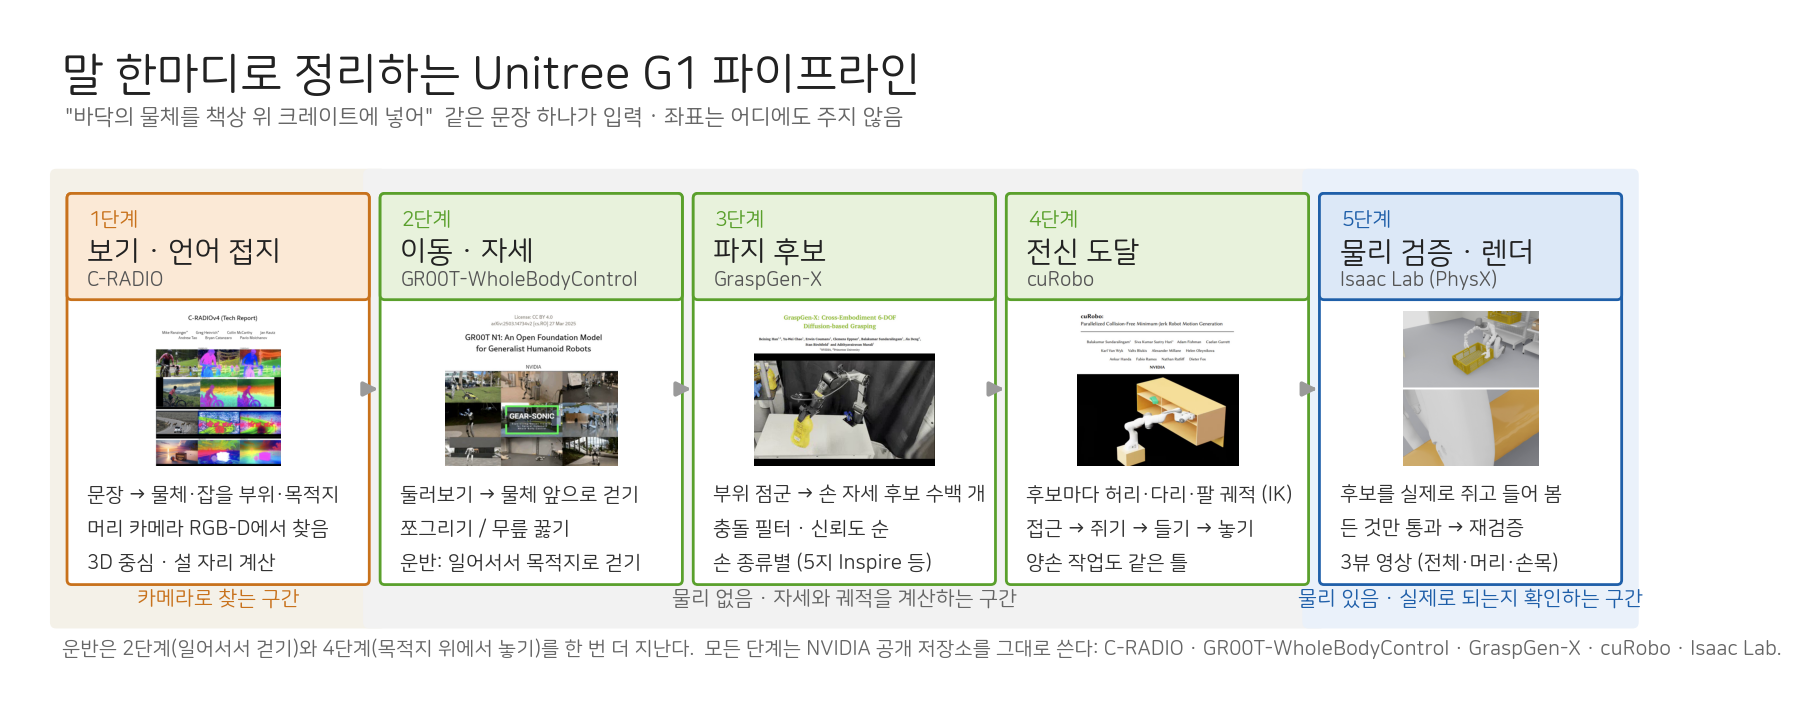
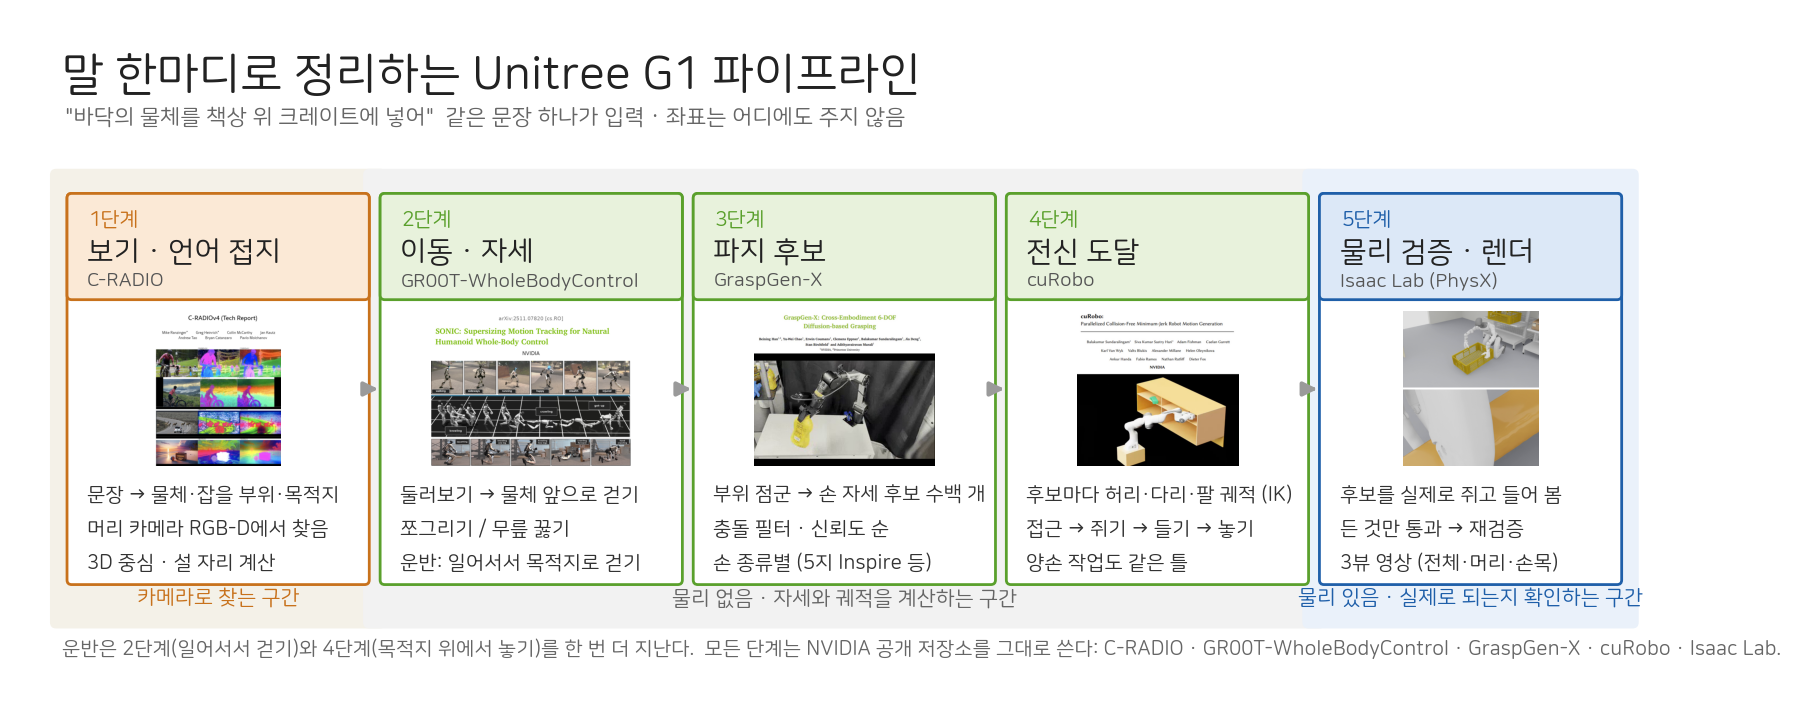
crate (261002): floor crate on the drill/hammer chain; pipeline figure stage 2 -> SONIC paper
- floor_to_crate_chain_wb.sh: CRATE_PICK (two-hand outside rim pinch, stops after the rise), CRATE_GRASPS
  (GraspGenX pairs + physics test), kneel round with the smallest error, APPROACH_TOL, LEGS_DIRECT /
  RISE_LEGS_DIRECT (legs on the drives through the stand-up, policy takes them standing), RISE_SLOW pass-through
- rise_reference_wb.py: BOTH_ARMS, RISE_UPPER (waist + arms frozen, GR00T deploy overwrites all 17 upper joints)
- reach_from_pose_wb.py: --crate-bring (rigid two-hand grip pulled in, torso_link upright target)
- crate_mesh_scene_wb.py: crate mesh surface as a GraspGenX JSON point-cloud scene (e2e mesh fallback)
- play_in_cell_wb.py: faulthandler on SIGUSR1 (render stalls are in omni.syntheticdata graph evaluate)
- docs: DIAGNOSIS 10-02; pipeline stage 2 thumbnail was the GR00T N1 paper, now SONIC (arXiv:2511.07820)

diff --git a/grasp/reach_from_pose_wb.py b/grasp/reach_from_pose_wb.py
@@ -928,6 +928,54 @@ def main():
         print(f"[reach] wrote {sys.argv[sys.argv.index('--out') + 1]}")
         return
 
+    # --crate-bring: still kneeling with the crate lifted, bring it in to the carrying position before the stand-up.
+    # GR00T's planner drives only the legs; the upper body is whatever the operator commands (g1_deploy_onnx_ref.cpp:
+    # 780-792), and an operator brings a load in before getting up. Crate v2/v3 of 261002 stood up with the crate 0.7 m
+    # in front of the pelvis and the waist at its roll/pitch limits (0.51) and fell. The two wrists move as one rigid
+    # grip (the crate stays held): its midpoint to CARRY_FWD in front of the pelvis at its current height, its heading
+    # turned to the pelvis heading; CARRY_FWD 0.256 m is where the planner's own objectCarrying arm (mode 21,
+    # carry_pose_wb.py CARRY_ARM) puts the wrists (FK on GR00T's g1_29dof.urdf). The torso_link gets a target too
+    # (cuRobo per-link ToolPoseCriteria): upright over the pelvis, facing its heading (waist 0; pelvis->torso offset
+    # (-0.0039635, 0, 0.054) from the urdf's waist joints). For the crate (0.6 m long, gripped 0.10 m on the robot's
+    # side of its centre) 0.256 puts its near end into the kneeling thighs (FK: knees 0.24 m ahead, thigh top 0.33 ->
+    # 0.11 m): crate v4 uses CARRY_FWD 0.35 + CARRY_UP 0.08 (near end 0.15 m ahead, bottom 0.24 m over thigh top ~0.21 m).
+    if "--crate-bring" in sys.argv:
+        li = list(cfg.tool_frames).index("left_wrist_yaw_link"); ri = list(cfg.tool_frames).index("right_wrist_yaw_link")
+        ti = list(cfg.tool_frames).index("torso_link"); pi_ = list(cfg.tool_frames).index("pelvis")
+        T0 = {}
+        for k in (li, ri):
+            M = np.eye(4); M[:3, 3] = pos0[k]; M[:3, :3] = quat_to_mat(quat0[k]); T0[k] = M
+        Rp = quat_to_mat(quat0[pi_]); fwd = Rp[:, 0].copy(); fwd[2] = 0; fwd /= np.linalg.norm(fwd)
+        yaw = math.atan2(fwd[1], fwd[0])
+        Ryaw = np.array([[math.cos(yaw), -math.sin(yaw), 0], [math.sin(yaw), math.cos(yaw), 0], [0, 0, 1]])
+        mid = (T0[li][:3, 3] + T0[ri][:3, 3]) / 2.0
+        across = T0[li][:3, 3] - T0[ri][:3, 3]; gyaw = math.atan2(across[1], across[0]) - math.pi / 2   # the grip's forward
+        dyaw = (yaw - gyaw + math.pi) % (2 * math.pi) - math.pi
+        Rd = np.array([[math.cos(dyaw), -math.sin(dyaw), 0], [math.sin(dyaw), math.cos(dyaw), 0], [0, 0, 1]])
+        target = pos0[pi_] + Ryaw @ np.array([float(os.environ.get("CARRY_FWD", "0.256")), 0.0, 0.0]); target[2] = mid[2] + float(os.environ.get("CARRY_UP", "0"))
+        Tt = np.eye(4); Tt[:3, :3] = Ryaw; Tt[:3, 3] = pos0[pi_] + Ryaw @ np.array([-0.0039635, 0.0, 0.054])
+        Tt0 = np.eye(4); Tt0[:3, :3] = quat_to_mat(quat0[ti]); Tt0[:3, 3] = pos0[ti]
+        from scipy.spatial.transform import Rotation as _Rb, Slerp as _Sb
+        tslerp = _Sb([0, 1], _Rb.from_matrix([Tt0[:3, :3], Tt[:3, :3]]))
+        n_go, n_hold = 90, 30
+        steps = []
+        for i in range(n_go + n_hold):
+            a = min(1.0, (i + 1) / n_go)
+            Ra = np.array([[math.cos(a * dyaw), -math.sin(a * dyaw), 0], [math.sin(a * dyaw), math.cos(a * dyaw), 0], [0, 0, 1]])
+            st = {}
+            for k in (li, ri):
+                M = T0[k].copy(); M[:3, :3] = Ra @ T0[k][:3, :3]
+                M[:3, 3] = mid + a * (target - mid) + Ra @ (T0[k][:3, 3] - mid); st[k] = M
+            M = np.eye(4); M[:3, :3] = tslerp([a]).as_matrix()[0]; M[:3, 3] = Tt0[:3, 3] + a * (Tt[:3, 3] - Tt0[:3, 3]); st[ti] = M
+            steps.append(st)
+        sol, err = solve_multi(steps)
+        w = [jn.index(f"waist_{x}_joint") for x in ("yaw", "roll", "pitch")]
+        print(f"[reach] crate bring: grip midpoint {np.round(mid, 3)} -> {np.round(target, 3)}, turned {math.degrees(dyaw):+.1f} deg; "
+              f"wrist error mean {err.mean()*1000:.1f} mm, max {err.max()*1000:.1f} mm; waist {np.round(sol[0, w], 2)} -> {np.round(sol[-1, w], 2)}")
+        np.savez(out, q=sol, joint_names=np.array(jn), err=err, close_from=-1, lift_from=-1, grasp=np.eye(4), best=-1)
+        print(f"[reach] wrote {out}")
+        return
+
     # --crate-place X Y Z: a two-hand set-down. Both wrists keep the poses the carry leaves them in and move by
     # one common vector until their MIDPOINT is at (X, Y, Z) (Z = the wrist height that puts the crate's bottom
     # PLACE_CLEAR above the desk top: the wrists ride 0.35 m above the crate bottom in the rim pinch), then both

diff --git a/grasp/crate_mesh_scene_wb.py b/grasp/crate_mesh_scene_wb.py
@@ -1,0 +1,27 @@
+"""The floor crate as GraspGenX sees it without a camera: its mesh surface sampled at the crate's pose.
+
+    python crate_mesh_scene_wb.py CRATE.obj X Y Z OUT_DIR [N_POINTS]
+
+GraspGenX samples the known mesh when there is no observation (end2end/e2e_grasp_demo.py:694-705,
+trimesh.sample.sample_surface, num_sample_points 2000). For the 0.6 m crate 2000 points are too sparse for
+GraspMoE's outlier removal (k 20 within the threshold: all 2000 removed), so N_POINTS is passed (crate: 20000; the
+260928 camera look saw the crate in 8344 px). The crate is written as a GraspGenX JSON point-cloud
+scene (graspgenx/utils/scene_loaders.py:128 load_graspgenx_json_scene) with the floor as the rest of the scene,
+so the e2e demo's own collision filter (filter_colliding_grasps against the scene) drops grasps through the floor.
+The camera clouds of 260928 (gg1-gg3) saw the honeycomb walls through and every pair closed on air.
+"""
+import json, os, sys
+import numpy as np, trimesh
+
+mesh, x, y, z, out = sys.argv[1], *map(float, sys.argv[2:5]), sys.argv[5]
+m = trimesh.load(mesh, force="mesh")
+pc, _ = trimesh.sample.sample_surface(m, int(sys.argv[6]) if len(sys.argv) > 6 else 2000, seed=0)
+pc = pc + [x, y, z]
+g = np.arange(-0.7, 0.7, 0.01)
+fx, fy = np.meshgrid(x + g, y + g)
+floor = np.stack([fx.ravel(), fy.ravel(), np.zeros(fx.size)], 1)
+os.makedirs(out, exist_ok=True)
+json.dump({"object_info": {"pc": pc.tolist(), "pc_color": np.full((len(pc), 3), 200).tolist()},
+           "scene_info": {"full_pc": [floor.tolist()], "img_color": np.full((len(floor), 3), 128).tolist()}},
+          open(os.path.join(out, "crate_scene.json"), "w"))
+print(f"[crate] {len(pc)} crate points (bounds {pc.min(0).round(3)} {pc.max(0).round(3)}), {len(floor)} floor points -> {out}")

diff --git a/grasp/rise_reference_wb.py b/grasp/rise_reference_wb.py
@@ -20,6 +20,13 @@ FPS = 30
 pick_pkl, pick_hands, carry_pkl, name = sys.argv[1:5]
 names = mujoco_names()
 arm = [7 + names.index(n) for n in RIGHT_ARM]
+if os.environ.get("BOTH_ARMS") == "1":               # a two-hand grip (the crate): the left arm stays too (build_place_reference_wb:60)
+    arm += [7 + names.index(n.replace("right_", "left_")) for n in RIGHT_ARM]
+if os.environ.get("RISE_UPPER") == "1":
+    # RISE_UPPER=1: the waist stays too -- GR00T's deploy overwrites all 17 upper-body joints (waist + both arms) of the
+    # planner reference with the commanded upper body (g1_deploy_onnx_ref.cpp:780-792); with the arms alone frozen the
+    # planner's waist (0.5 -> 0) swung the 2 kg crate out in front (crate v2 of 261002, fall_grid.png)
+    arm += [7 + names.index(n) for n in ("waist_yaw_joint", "waist_roll_joint", "waist_pitch_joint")]
 pick = clip_qpos(pick_pkl)
 hands_pick = np.load(pick_hands)
 rise = clip_qpos(carry_pkl)

diff --git a/grasp/play_in_cell_wb.py b/grasp/play_in_cell_wb.py
@@ -9,9 +9,14 @@
 # that falls over mid-reach says nothing about whether the plan was good.
 #
 #   python grasp/play_in_cell.py [traj.npy] [--video out.mp4]
+import faulthandler
 import json
 import os
+import signal
 import sys
+# kill -USR1 <pid> writes every thread's Python stack to the log: the renders stall with the CPU spinning and the
+# log silent (v8, v12, crate 261002 x4) and ptrace (py-spy) is not allowed here, so nothing has ever shown where
+faulthandler.register(signal.SIGUSR1, all_threads=True)
 
 from isaaclab.app import AppLauncher
 

diff --git a/docs/DIAGNOSIS_wb.md b/docs/DIAGNOSIS_wb.md
@@ -4471,3 +4471,30 @@ v79 = v72 env 그대로 + 기립 클립만 --rise-first 2 로 재생성(rg79c0r:
 - 렌더: 손가락 열기 뒤 드릴이 크레이트 바닥으로 떨어져 정지(xy 중심에서 6/8 cm, 중심 z≈0.81 < 테두리 0.926). 체인의 inside 판정은 물체 원점(중심+0.13)으로 비교해 "not inside" 로 잘못 찍힘 → 판정을 메시 중심으로 고칠 것.
 - 렌더 메모리: 프레임을 바로 mp4 로 쓰는 `play_in_cell_wb.py` 첫 사용, RSS 12 GB → 4.2 GB.
 - 드릴 전 과정 성립(접근·양무릎·파지·기립·운반·투하). 망치는 v15, 드릴은 v7.
+
+## 2026-10-02 — 크레이트 재개 (10/261002/5지/crate)
+
+- 09-28 크레이트 실패(v5/v6/v10)는 전부 기립에서 놓친 것 — 해머·드릴이 그 뒤 고친 것(부유 베이스 SONIC + 측정→재계획, Isaac Lab Inspire 게인 kp 10,
+  기립 클립을 측정 자세에서, RISE_STRAIGHTEN)을 크레이트는 받은 적이 없다. 체인 `floor_to_crate_chain_wb.sh` 에 CRATE_PICK(양손, 기립 뒤 정지),
+  `rise_reference_wb.py` BOTH_ARMS(build_place_reference_wb.py:60 패턴).
+- v1 LOST: 무릎이 스탠드 0.19 m 뒤 → 양손 도달 92 mm, 오른손은 벽 바깥 허공, 왼손은 크레이트 안(세훈님: "아예 허공을 잡음").
+  09-28 13:10 에 이미 "손으로 정한 집기는 보류, 모델 후보로만" 이라 적어 두었는데 v4 의 손 집기를 다시 꺼낸 것이 잘못.
+- 파지 후보(GraspGenX 원본 경로): 관측이 없으면 메시 표면을 샘플(e2e_grasp_demo.py:694-705) → `grasp/crate_mesh_scene_wb.py` 가 crate.obj 를
+  크레이트 자세에 20000 점(2000 점은 GraspMoE 이상점 제거가 전부 지움) + 바닥 점으로 JSON 장면(scene_loaders.py:128) 작성 → e2e_grasp_demo
+  (g1_inspire_arm, graspmoe/diffusion, outlier 0.03 = floor_object_chain 과 같음, 원본 충돌 필터) → 96 개(39+57), 양쪽 긴 벽에 고루,
+  끝점이 벽에서 0.6-10 cm (09-28 카메라 점군 후보는 벽 안쪽 7-10 cm 허공). 체인 CRATE_GRASPS=1: --crate-grasps 쌍 + 물리 시험.
+- 접근이 매번 빗나가는 원인(GR00T 원본 대조): GR00T 배포는 플래너를 10 Hz 스레드에서 걷는 중 1 s 마다 재계획하고(g1_deploy_onnx_ref.cpp:3621-3701,
+  planner_onnx.md:330-385) 방향은 조작자가 실시간으로 준다 — 위치 피드백은 사람이 닫는다. 목표 위치 입력(has_specific_target)은 배포에서 0 고정.
+  SONIC g1 인코더는 기준 루트 x/y 를 보지 않는다(sonic_control.py:280-306) → 우리처럼 오프라인 클립을 열린 루프로 따라가면 33-60% 만 가고
+  0.5 m 이하는 안 간다. walk_clip.py 의 도착 판정도 플랜 자신의 루트 기준(:194-197). 오늘 덧댄 APPROACH_TOL·APPROACH_K=3·최선 회차는 원본에 없는 땜질.
+  원본 구조대로라면: play_in_cell 루프 안에서 1 s 마다 측정 루트→스탠드 방향으로 movement/facing 을 갱신해 재계획(조작자 역할), 8 프레임 교차 혼합
+  (g1_deploy_onnx_ref.cpp:3192-3260), 도착하면 모드 5. 훅 위치: play_in_cell_wb.py:1439 (_wsonic_tick 직전), SonicTracker 기준 교체 필요.
+- v2 (14:00 세훈님 "v2 파지 잘했어", 기립이 문제): 가까운 무릎(0.112 m)에서 손 집기 도달 19 mm, 25 cm 들었으나 기립에서 넘어짐.
+- v3 (처음 v4 로 렌더; 영상 없는 GraspGenX 쌍 시도 폴더는 지움): v2 픽 상태에서 기립만 GR00T 식으로 — 허리+팔 17관절 고정(RISE_UPPER,
+  g1_deploy_onnx_ref.cpp:780-792), 늘이기 없음(RISE_SLOW=1), 양무릎 hold 없음. 기립 시작 1 s 안에 다리가 뒤로 차이고 앞으로 쏠려 크레이트 낙하.
+- 원인(측정): 기립 직전 크레이트 중심이 골반 앞 0.7 m. 픽 마지막 자세 허리 yaw 0.30 / roll 0.51 / pitch 0.51 — roll·pitch 는 한계값, 도달 풀이가
+  골반을 앞으로 11 cm 끌었음(PELVIS_W 1.0 / 0.3 으로 바꿔도 허리는 한계 그대로, 오차만 58 / 23 mm). 집기점(크레이트 중앙 +0.10)이 스탠드 0.50 에서
+  골반 앞 0.70 m — GR00T mode 21 운반 손목(FK, 골반 앞 0.256 m, 좌우 ±0.20)보다 멀다. 즉 기립 문제의 뿌리는 무릎 위치(접근 정확도).
+  공구는 0.2 kg(plan_scene.py:83), 크레이트 2 kg(map/props.py:28; SONIC 학습 하중은 손목 질량 x0.8-2.5 ≈ +0.38 kg, level0_4.yaml:9-17).
+- 다음: GR00T 의 조작자 역할을 시뮬 루프에 — 걷는 동안 1 s 마다 측정 루트→스탠드 방향으로 재계획, 측정 도착 시 정지 후 모드 5.
+  그 뒤 스탠드를 운반 손 위치 기준(집기점이 골반 앞 ~0.3 m)으로 당긴다.
